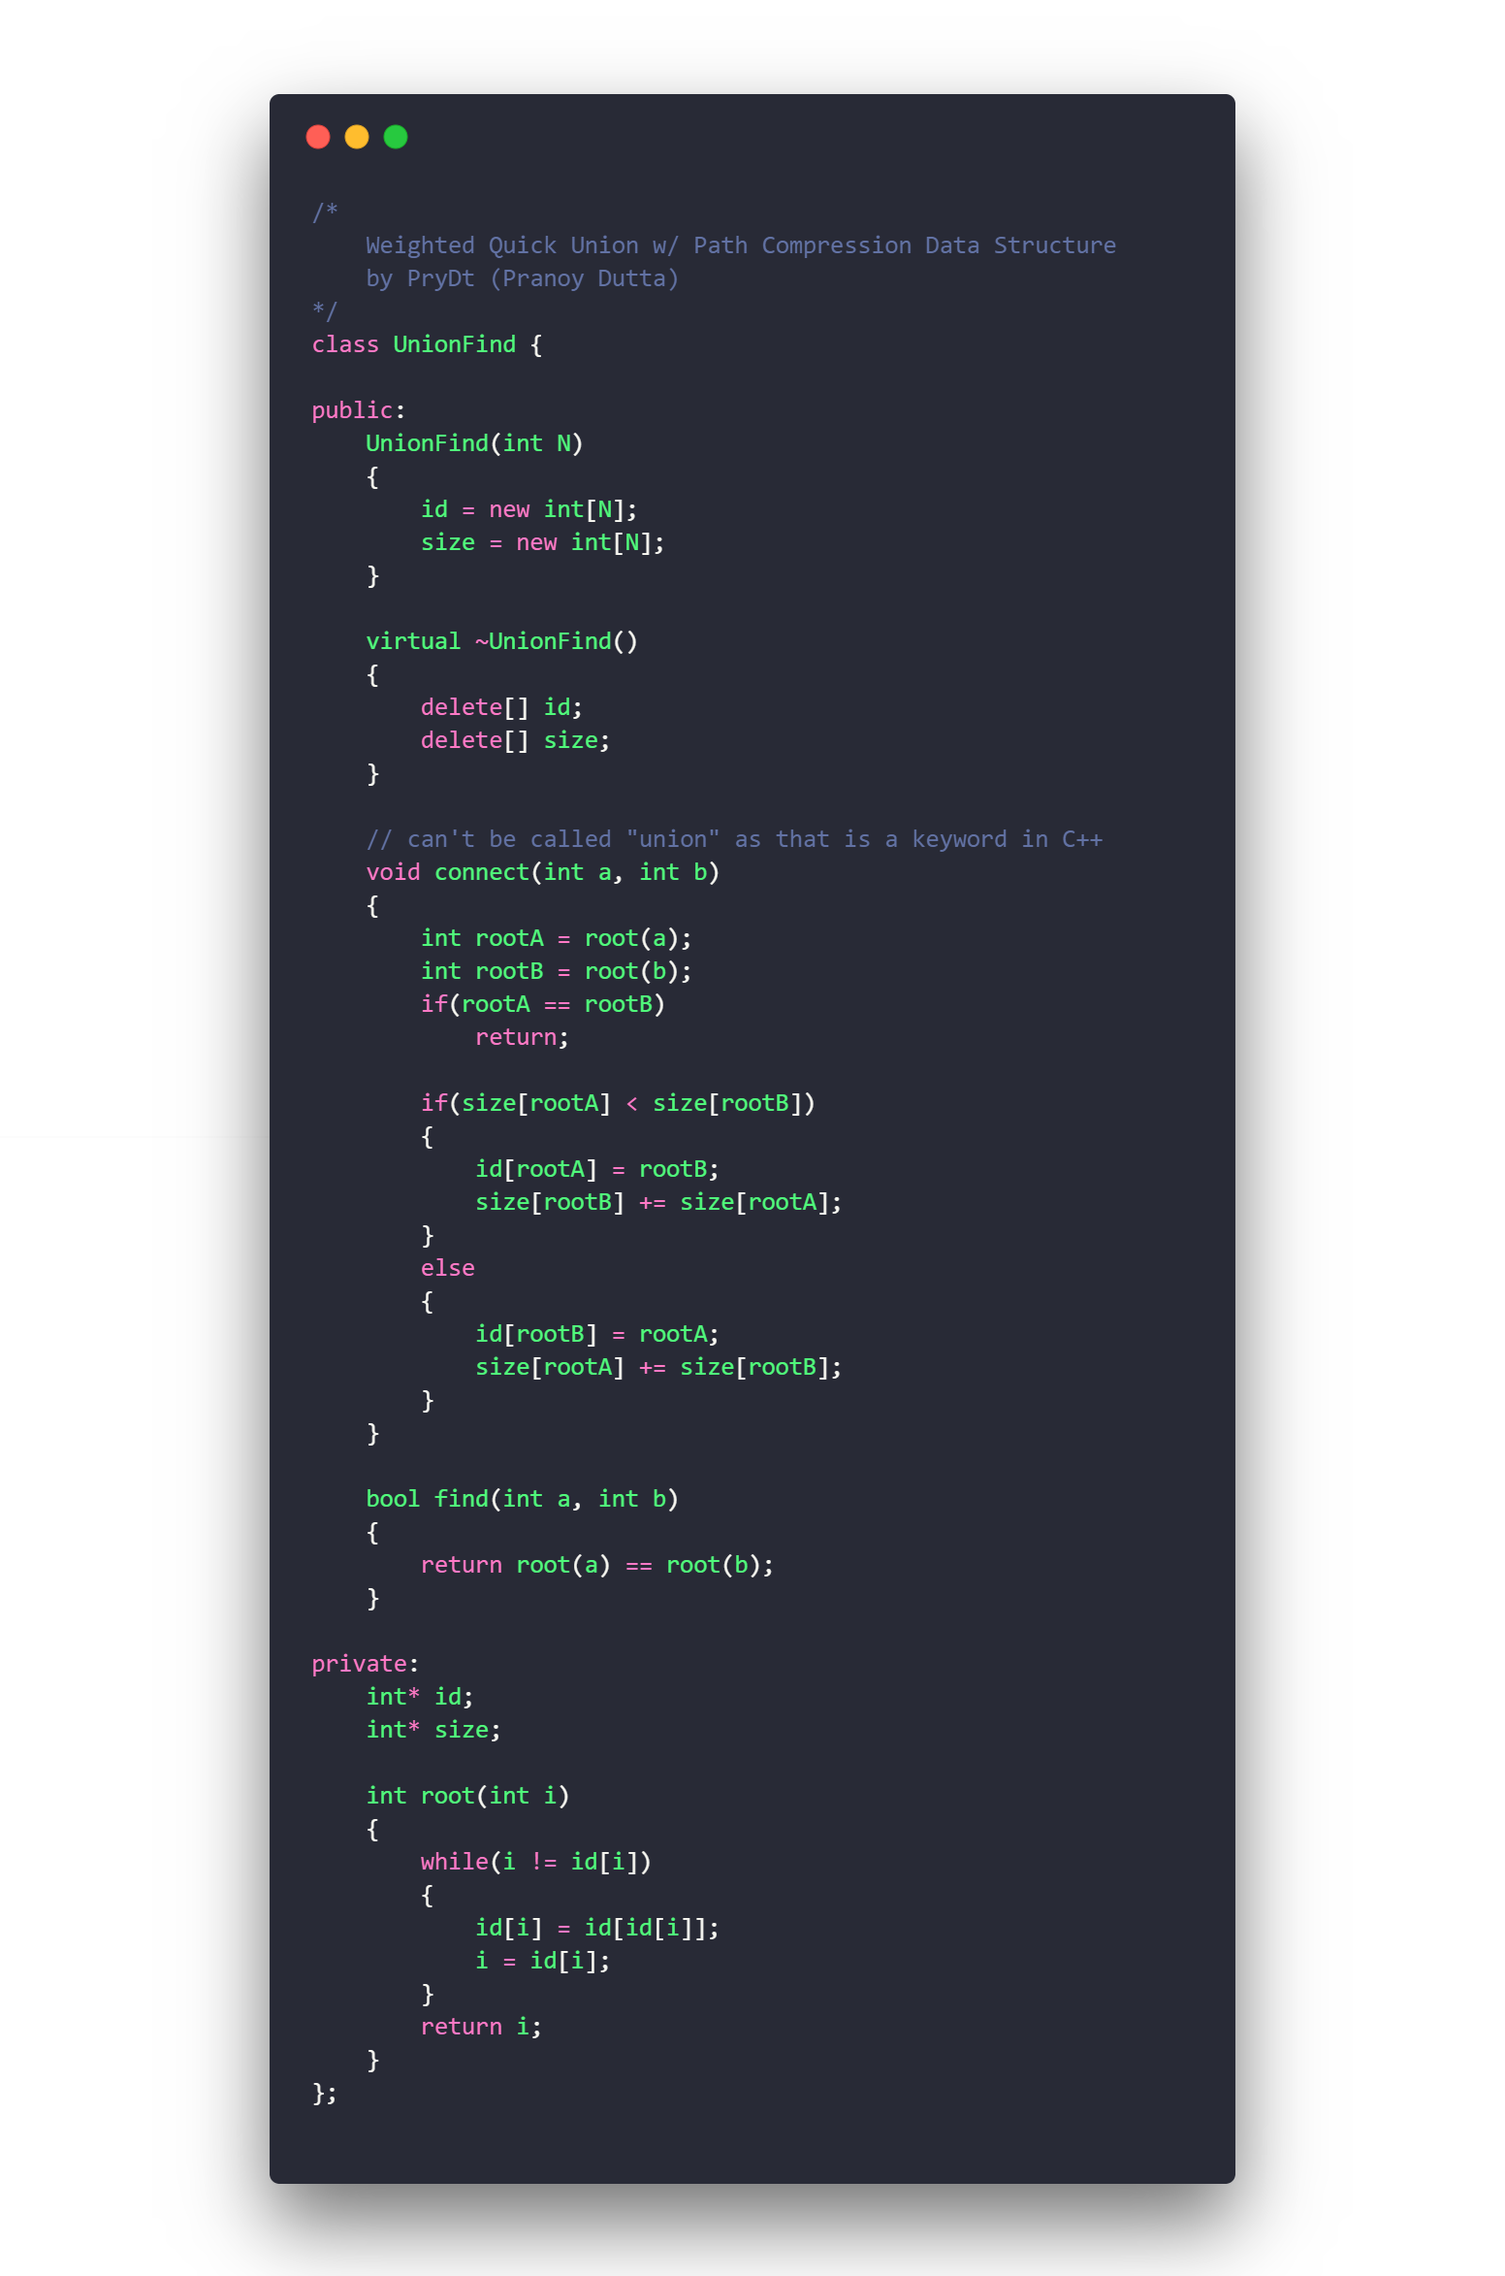
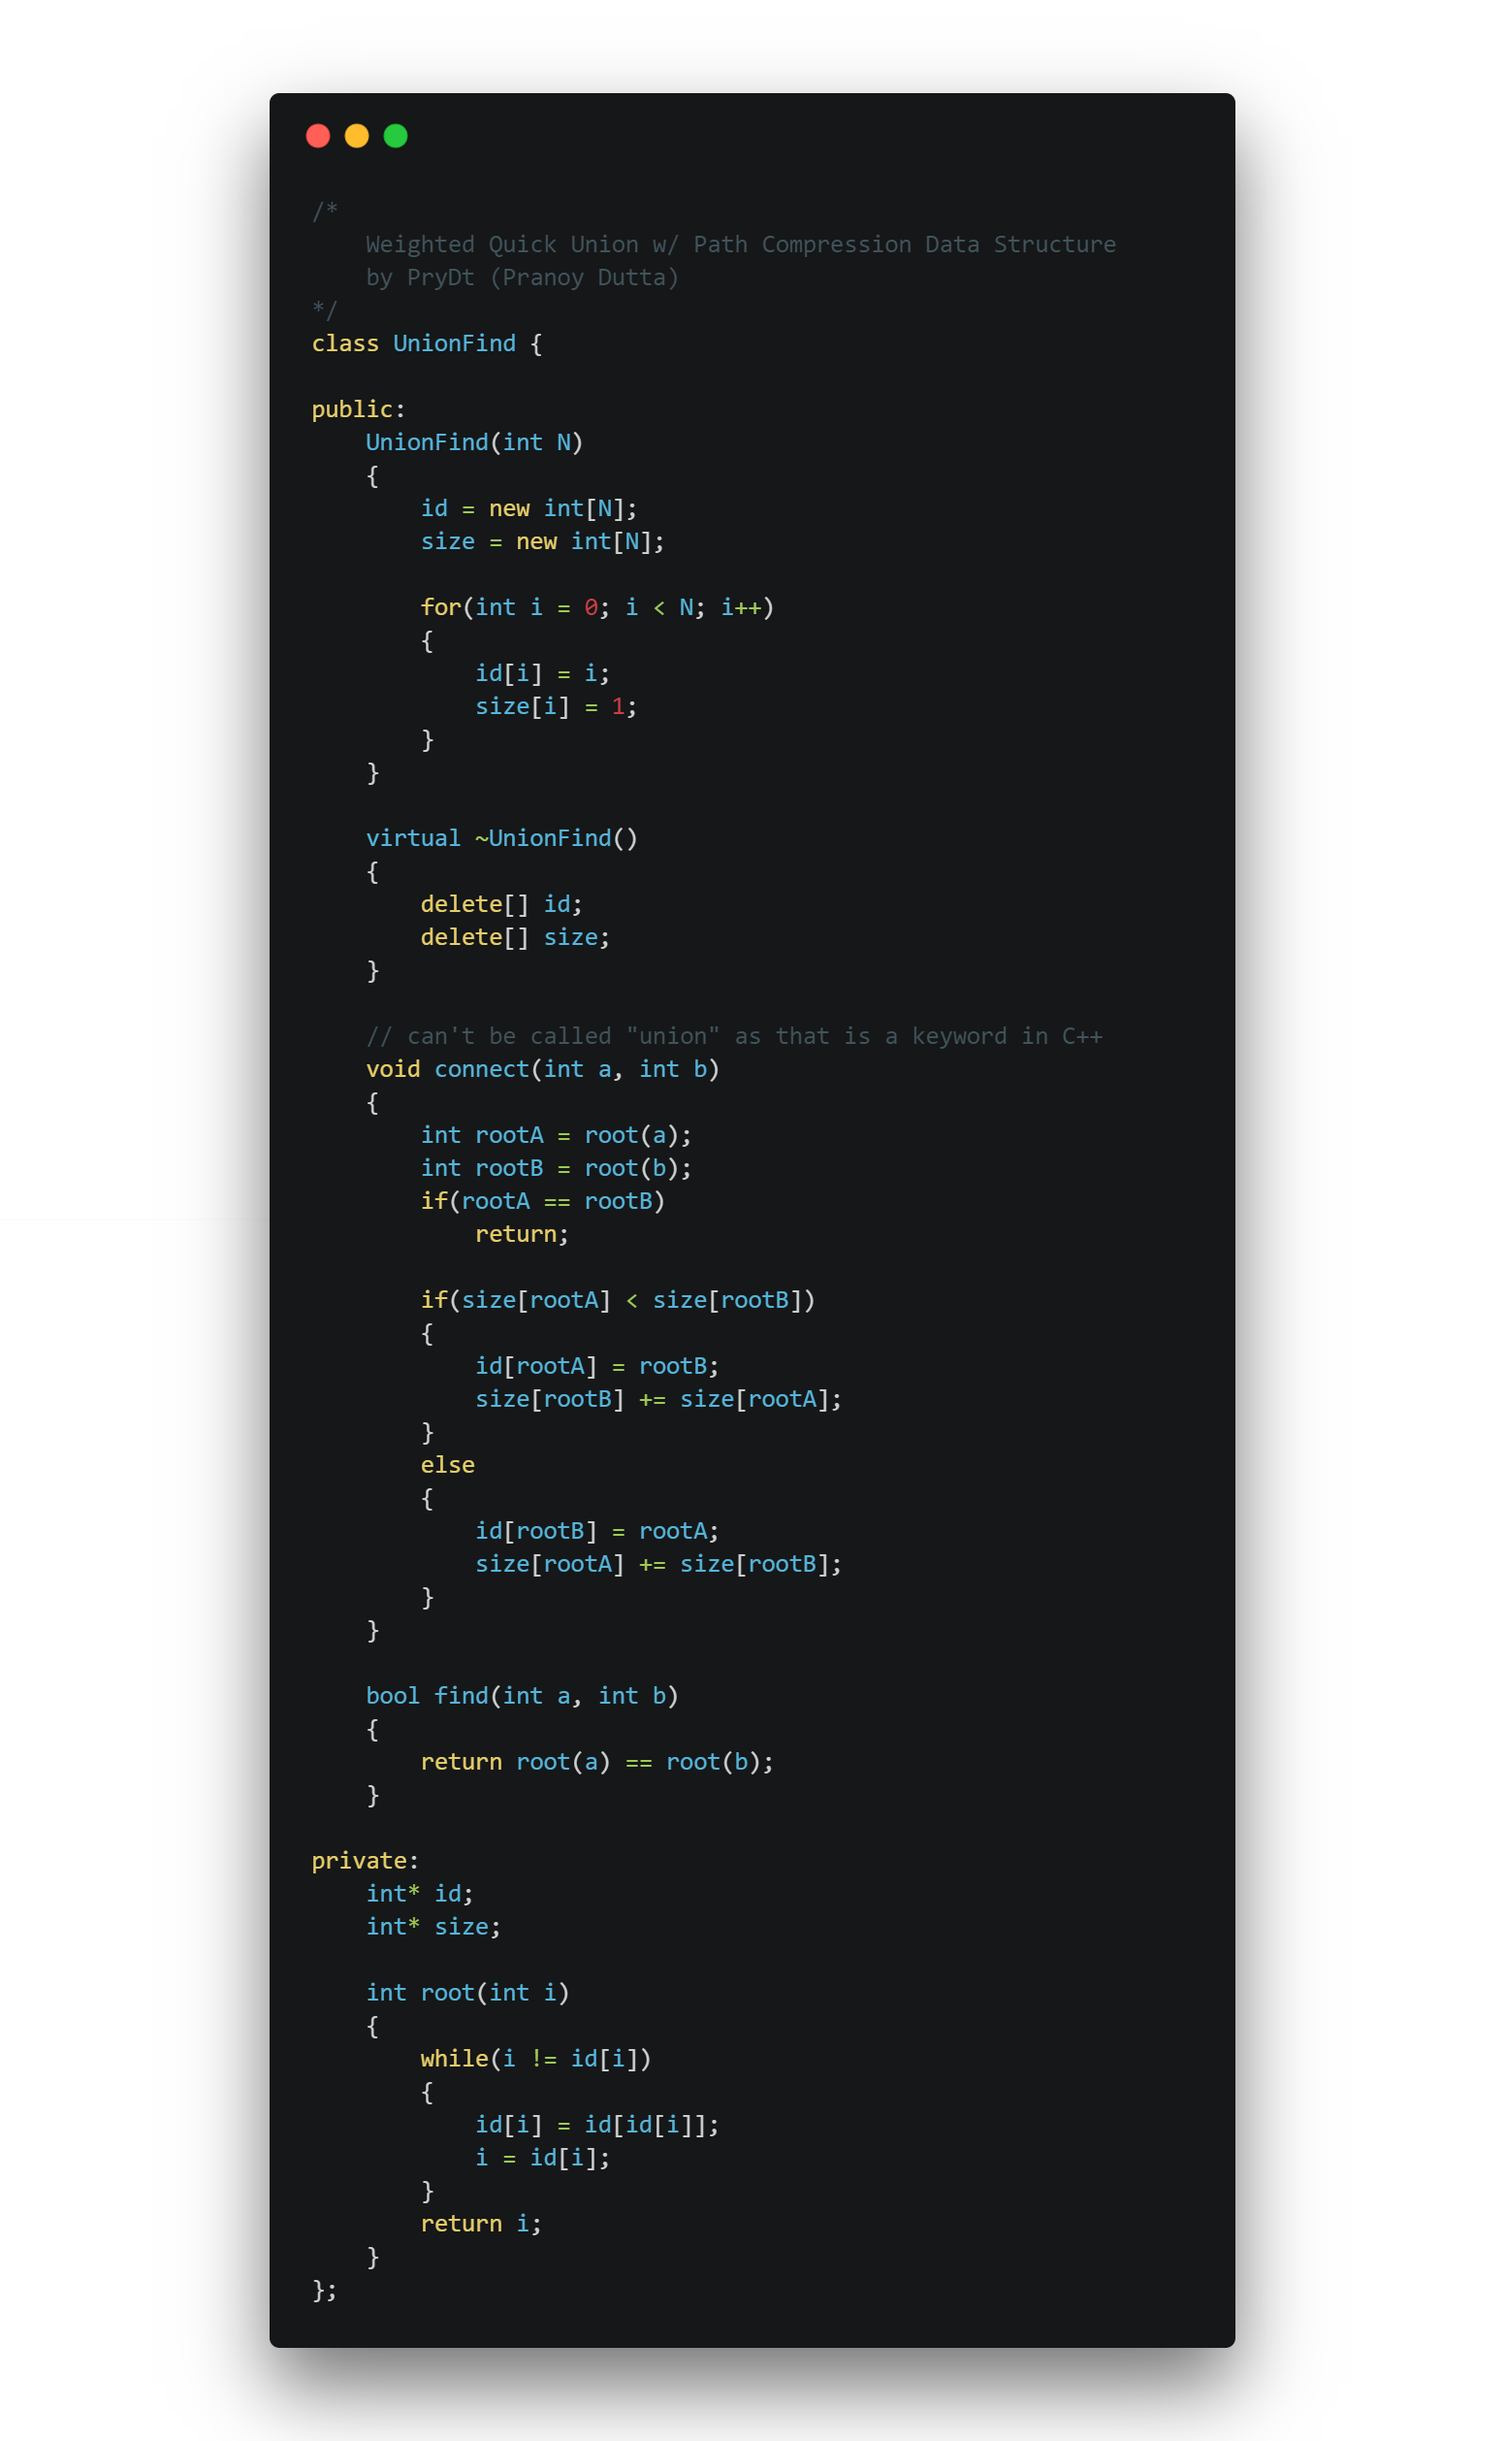
fixed error in code

diff --git a/union_find/UnionFind.h b/union_find/UnionFind.h
@@ -9,6 +9,12 @@ public:
     {
         id = new int[N];
         size = new int[N];
+
+        for(int i = 0; i < N; i++)
+        {
+            id[i] = i;
+            size[i] = 1;
+        }
     }
 
     virtual ~UnionFind()
